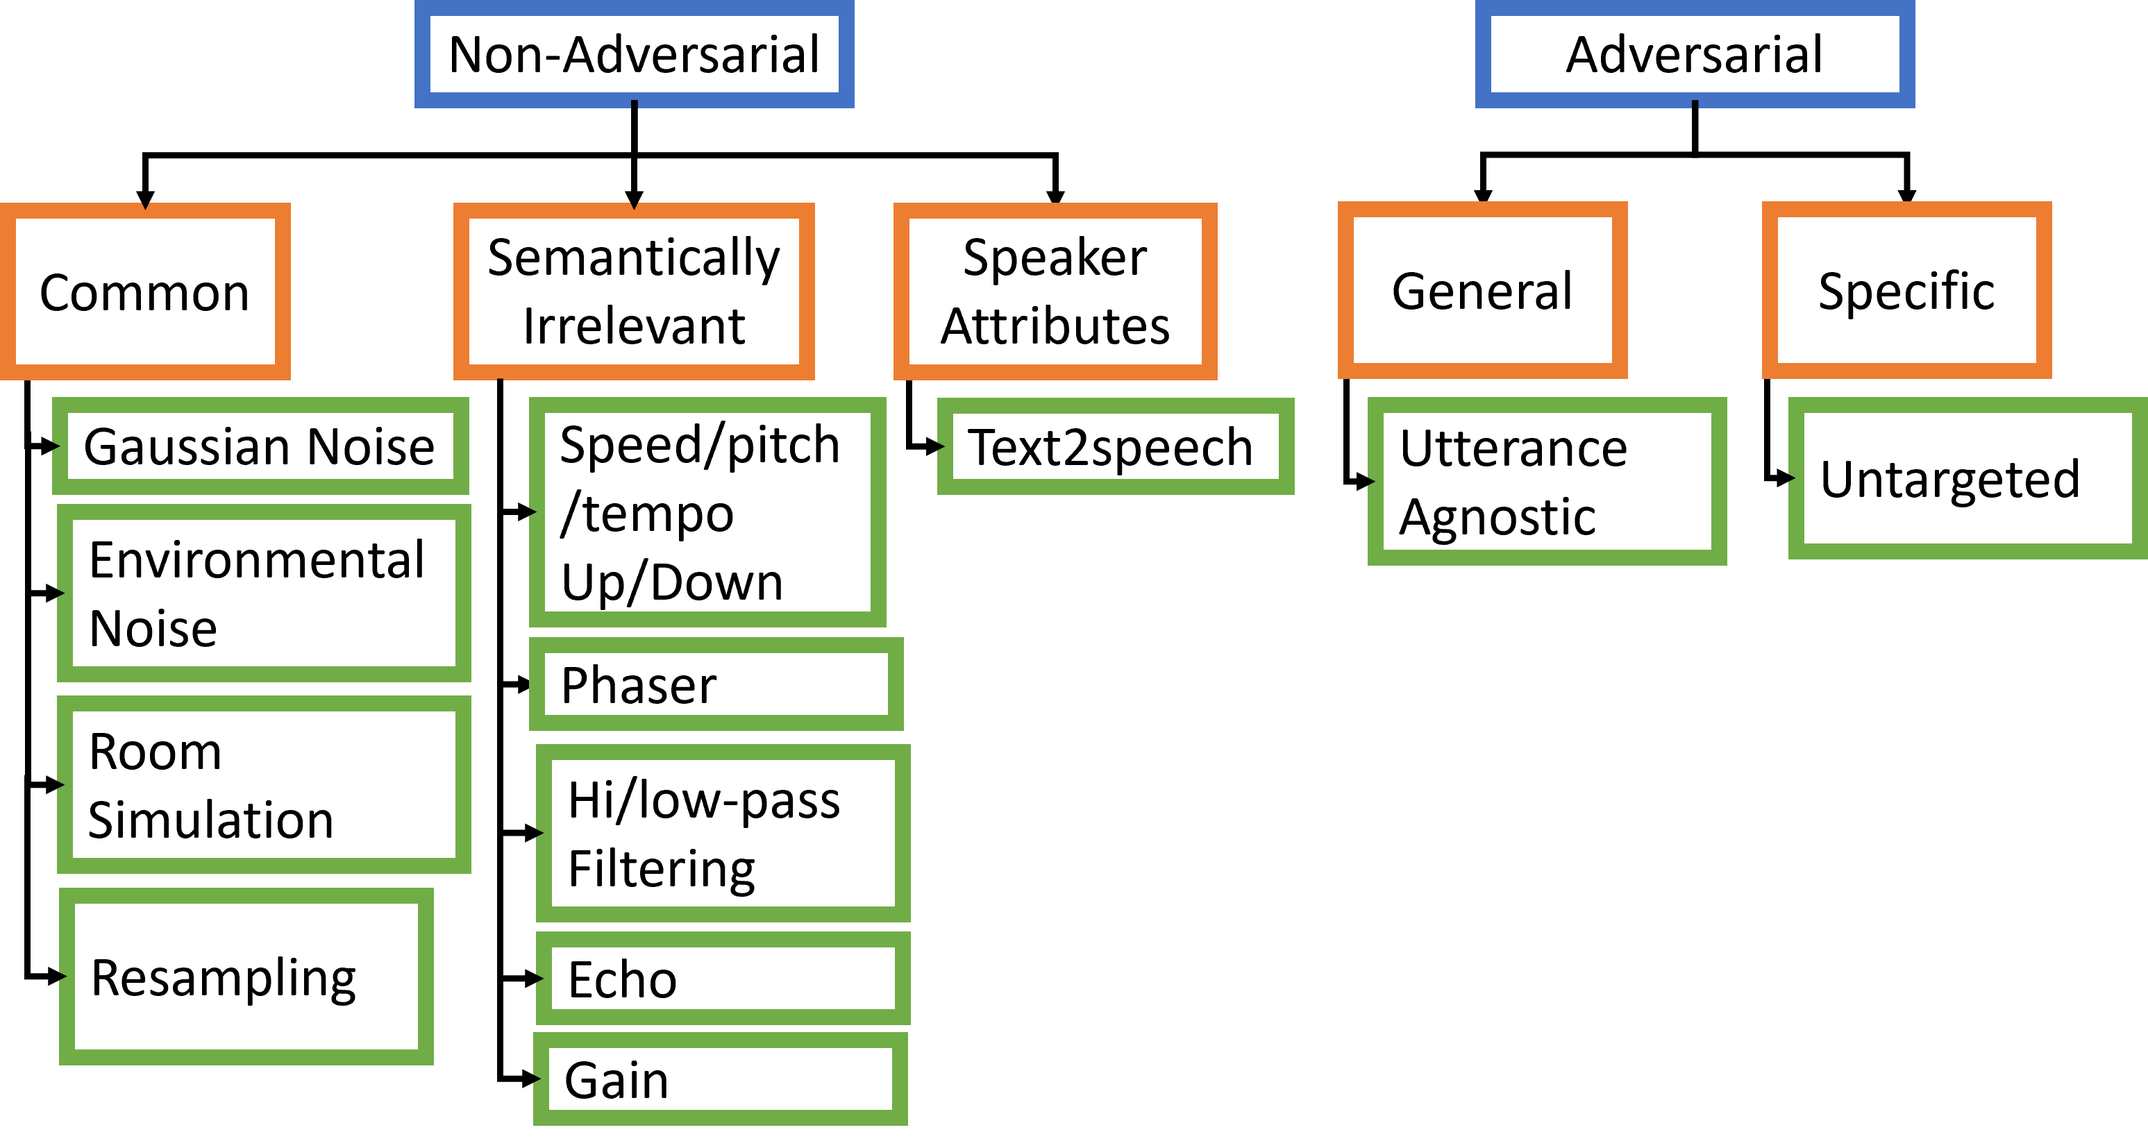
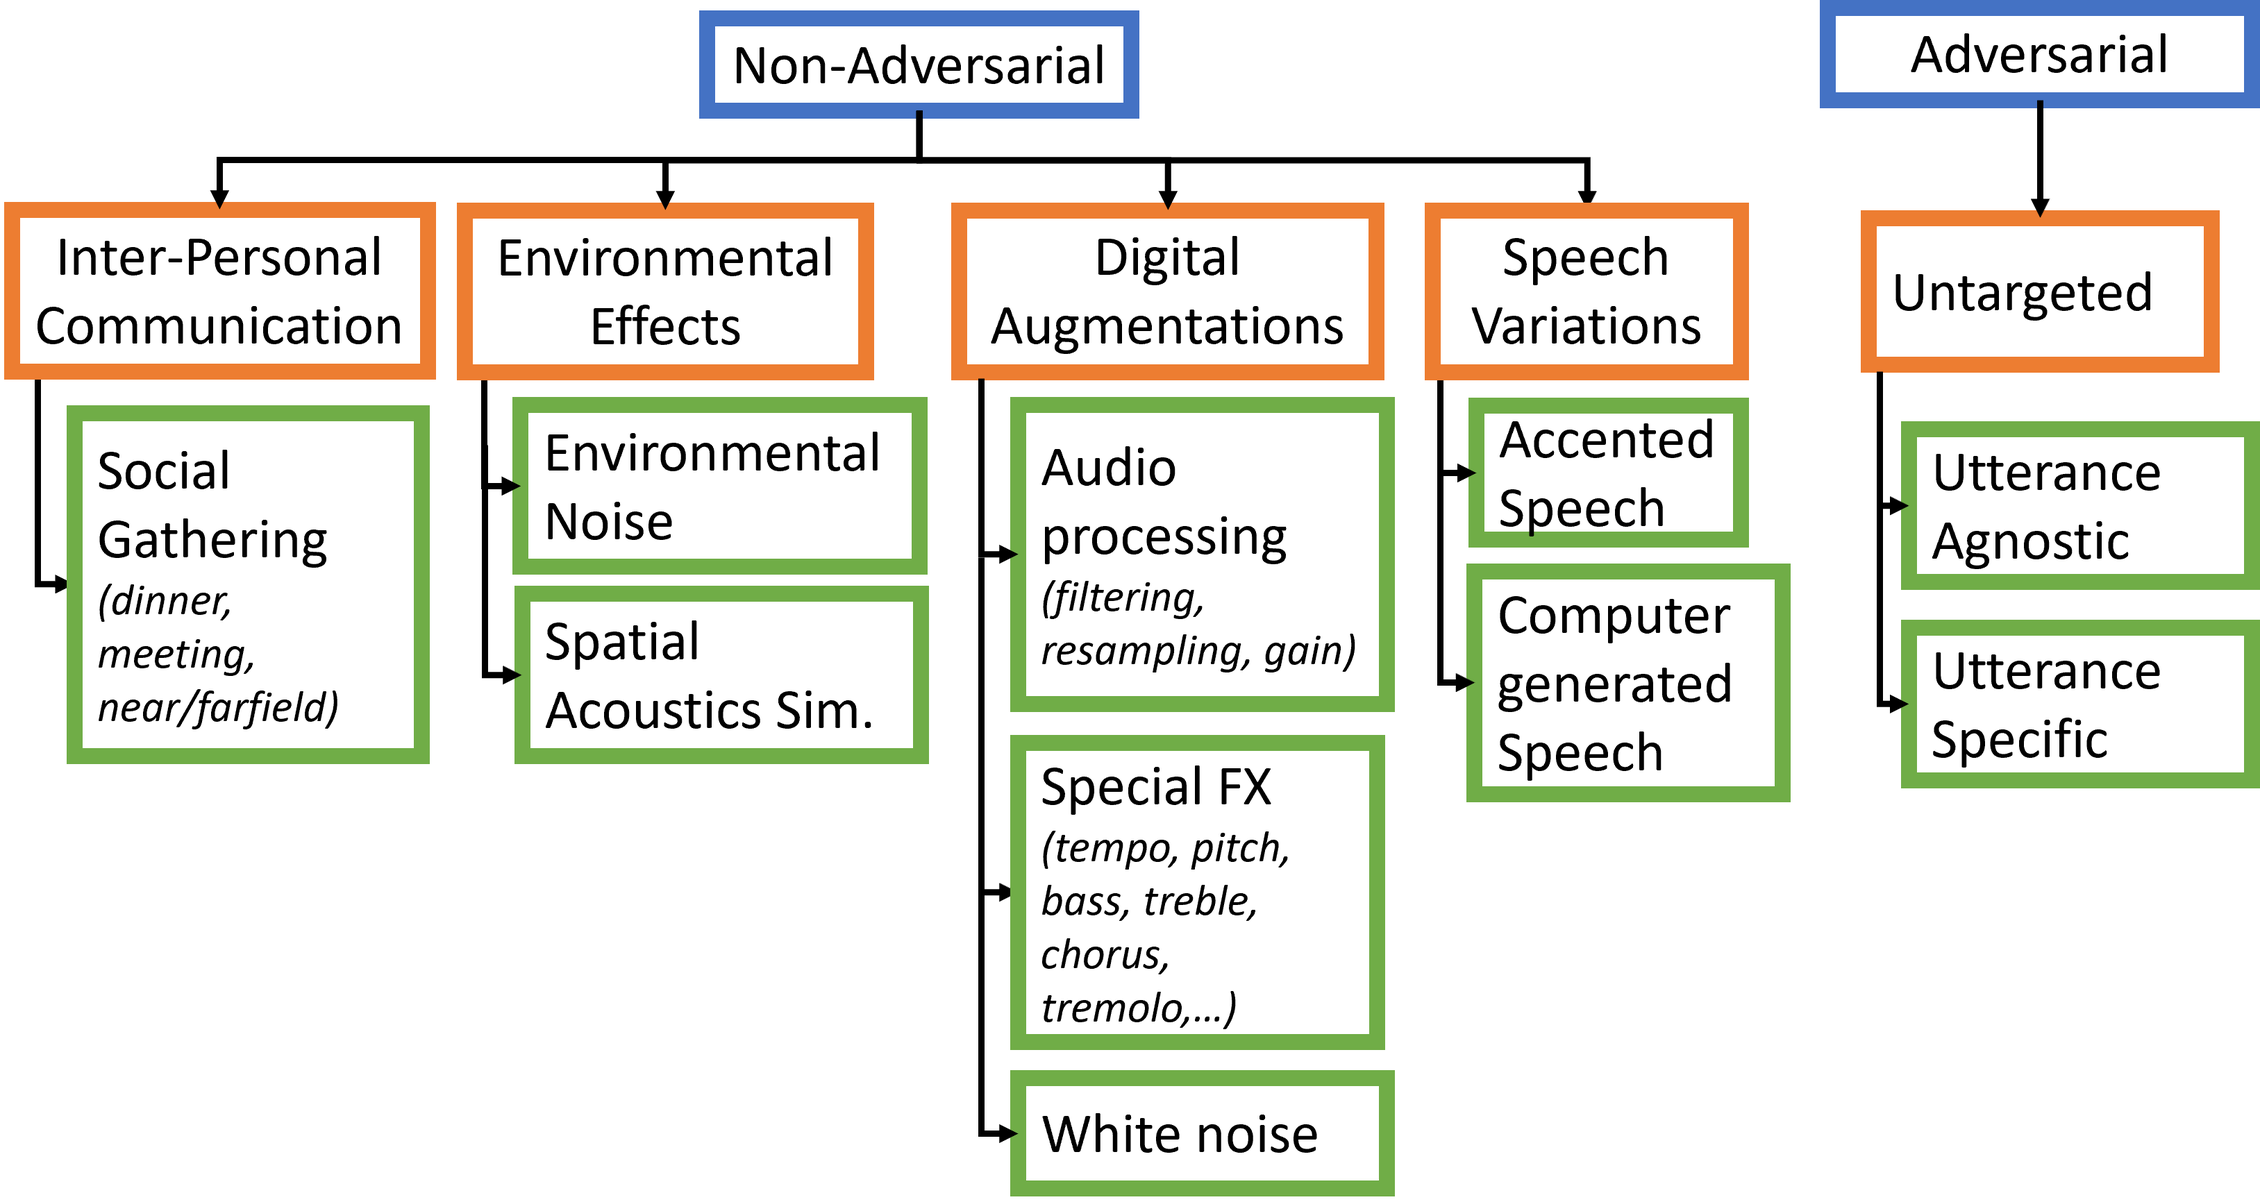
moved transcription pipeline code to models/

Changed region(s): [[0.0, 0.0, 1.0, 1.0]]

diff --git a/evaluate_single.py b/evaluate_single.py
@@ -6,6 +6,7 @@ import string
 from multiprocessing import cpu_count
 import torch
 from create_transformed_datasets import load_augmentation, transform_dataset, parse_augmentation
+from models import create_model_pipeline
 
 N_CPUS = cpu_count()
 N_GPUS = torch.cuda.device_count()
@@ -25,7 +26,7 @@ if __name__ == '__main__':
     parser.add_argument('--subset', default=None, help='Subset of the dataset to use. default: None')
     parser.add_argument('--split', default='test.clean', help='Split of the dataset to use. default: test.clean')
     parser.add_argument('--batch_size', type=int, default=128)
-    parser.add_argument('--augmentation', type=str, help='Augmentation to apply to the dataset. Should be of the form <aug>:<sev>, where <aug> is a key in corruptions.AUGMENTATIONS, and <sev> is the severity in range 1-4 (except for voice_conversion_vctk for which it should be 1). default: None')
+    parser.add_argument('--augmentation', type=str, help='Augmentation to apply to the dataset. Should be of the form <aug>:<sev>, where <aug> is a key in corruption_info.AUGMENTATIONS_2_SEV, and <sev> is the severity in range 1-4 (except for voice_conversion_vctk for which it should be 1). default: None')
     parser.add_argument('--universal_delta_path', type=str, help='Path to the universal adversarial perturbation. default: None')
     parser.add_argument('--language', default='english', help='Language of the dataset. This is needs to be correctly specified for multi-lingual models. default: english')
     parser.add_argument('--output_dir', default='outputs', help='Output directory for the results. default: outputs')
@@ -60,7 +61,6 @@ if __name__ == '__main__':
             i += 1
             ofp = f'{odir}/{ofn}_{i}.tsv'
     from datasets import load_dataset, Audio, concatenate_datasets
-    from transformers.pipelines.pt_utils import KeyDataset
     import evaluate
     import numpy as np
     import pandas as pd
@@ -103,135 +103,11 @@ if __name__ == '__main__':
     wer_metric = evaluate.load("wer")
     cer_metric = evaluate.load("cer")
 
-    if args.model_name == 'deepspeech':
-        from deepspeech_pytorch.model import DeepSpeech
-        from deepspeech_pytorch.loader.data_loader import ChunkSpectrogramParser
-        from deepspeech_pytorch.decoder import GreedyDecoder
-
-        model = DeepSpeech.load_from_checkpoint(f'{os.environ["SRB_ROOT"]}/deepspeech_ckps/librispeech_pretrained_v3.ckpt')
-        parser = ChunkSpectrogramParser(audio_conf=model.spect_cfg)
-        def extract_features(x):
-            waveform = x['audio']['array']
-            spec = list(parser.parse_audio(waveform))[0]
-            x['spec'] = spec
-            x['lengths'] = spec.shape[1]
-            return x
-        dataset = dataset.map(extract_features, batched=False, num_proc=N_CPUS//4)
-        
-        def collate_fn(batch):
-            specs = [torch.FloatTensor(batch[i]['spec']).transpose(0,1) for i in range(len(batch))]
-            lengths = torch.LongTensor([(batch[i]['lengths']) for i in range(len(batch))])
-            specs = torch.nn.utils.rnn.pad_sequence(specs, batch_first=True).unsqueeze(1).transpose(2,3)
-            return {'spec': specs, 'lengths': lengths}
-        
-        dataloader = torch.utils.data.DataLoader(dataset, batch_size=args.batch_size, collate_fn=collate_fn, num_workers=N_CPUS//4, shuffle=False)
-        decoder = GreedyDecoder(model.labels)
-        def transcribe(dataloader):
-            for batch in dataloader:
-                length_order = torch.argsort(batch['lengths'], descending=True)
-                reverse_length_order = torch.argsort(length_order)
-                batch['spec'] = batch['spec'][length_order]
-                batch['lengths'] = batch['lengths'][length_order]
-                out, lens, _ = model(batch['spec'].cuda(), batch['lengths'].cuda())                
-                decoded_output, decoded_offsets = decoder.decode(out, lens)
-                for i in reverse_length_order:
-                    yield {'text': decoded_output[i][0]}
-        pipe = transcribe(dataloader)
-    elif args.model_name == 'rnnt':
-        import torchaudio
-        from torchaudio.pipelines import EMFORMER_RNNT_BASE_LIBRISPEECH
-
-        feature_extractor = EMFORMER_RNNT_BASE_LIBRISPEECH.get_feature_extractor()
-        decoder = EMFORMER_RNNT_BASE_LIBRISPEECH.get_decoder().cuda()
-        token_processor = EMFORMER_RNNT_BASE_LIBRISPEECH.get_token_processor()
-
-        def extract_features(x):
-            waveform = torch.FloatTensor(x['audio']['array'])
-            spec, length = feature_extractor(waveform)
-            x['spec'] = spec
-            x['lengths'] = length[0]
-            return x
-        dataset = dataset.map(extract_features, batched=False, num_proc=4)
-
-        def collate_fn(batch):
-            specs = [torch.FloatTensor(batch[i]['spec']) for i in range(len(batch))]
-            lengths = torch.LongTensor([(batch[i]['lengths']) for i in range(len(batch))])
-            specs = torch.nn.utils.rnn.pad_sequence(specs, batch_first=True)
-            return {'spec': specs, 'lengths': lengths}      
-        dataloader = torch.utils.data.DataLoader(dataset, batch_size=args.batch_size, collate_fn=collate_fn, num_workers=4, shuffle=False)
-        
-        def transcribe(dataloader):
-            for batch in dataloader:
-                with torch.no_grad():
-                    for feature, length in zip(batch['spec'].cuda(), batch['lengths'].cuda()):
-                        hypotheses = decoder(feature.unsqueeze(0), length.unsqueeze(0), 1)
-                        text = token_processor(hypotheses[0][0])
-                        yield {'text': text}
-        pipe = transcribe(dataloader)
-    elif args.model_name.startswith('nvidia/canary'):
-        from nemo.collections.asr.models import EncDecMultiTaskModel
-        from scipy.io import wavfile
-        model = EncDecMultiTaskModel.from_pretrained('nvidia/canary-1b')
-        decode_cfg = model.cfg.decoding
-        decode_cfg.beam.beam_size = 1
-        model.change_decoding_strategy(decode_cfg)
-        # if aug == 'universal_adv':
-        #     print(f'Adversarial attacks against {args.model_name} are not supported.')
-        # else:
-        import tempfile, json
-        long2short_lang = {
-            'English': 'en',
-            'Spanish': 'es'
-        }
-        with tempfile.NamedTemporaryFile(suffix='.json', mode='w') as tmp:
-            with tempfile.TemporaryDirectory() as tmpdir:
-                print(f'writing creating manifest in {tmp.name}...')
-                for i, item in tqdm(enumerate(dataset)):
-                    tmpaudiofile = os.path.join(tmpdir, f"{item['id']}.wav")
-                    wavfile.write(tmpaudiofile, 16000, item['audio']['array'])
-                    r = {
-                            "audio_filepath": tmpaudiofile,  # path to the audio file
-                            "duration": item['audio']['array'].shape[-1],  # duration of the audio, can be set to `None` if using NeMo main branch
-                            "taskname": "asr",  # use "s2t_translation" for speech-to-text translation with r1.23, or "ast" if using the NeMo main branch
-                            "source_lang": long2short_lang[args.language],  # language of the audio input, set `source_lang`==`target_lang` for ASR, choices=['en','de','es','fr']
-                            "target_lang": long2short_lang[args.language],  # language of the text output, choices=['en','de','es','fr']
-                            "pnc": "yes",  # whether to have PnC output, choices=['yes', 'no']
-                            "answer": "na", 
-                        }
-                    tmp.write(json.dumps(r)+'\n')
-                    tmp.flush()
-                transcripts = model.transcribe(paths2audio_files=tmp.name, batch_size=args.batch_size)
-            # def pipe():
-            #     for t in transcripts:
-            #         yield {'text': t}
-            pipe = [{'text':t} for t in transcripts]
+    if args.model_parallelism: 
+        kwargs = {'device_map': 'auto'}
     else:
-        if args.model_parallelism: 
-            kwargs = {'device_map': 'auto'}
-        else:
-            kwargs = {'device': 'cuda:0'}
-        model = args.model_name
-        gen_kwargs = {}
-        if ('whisper' in args.model_name) and (args.language != 'English'):
-            from transformers import WhisperProcessor
-            processor = WhisperProcessor.from_pretrained(args.model_name)
-            gen_kwargs = {'forced_decoder_ids': processor.get_decoder_prompt_ids(language=args.language.lower(), task="transcribe")}
-            print(gen_kwargs)
-        if ('mms' in args.model_name) and (args.language != 'English'):
-            from transformers import Wav2Vec2ForCTC, AutoProcessor
-            processor = AutoProcessor.from_pretrained(args.model_name, torch_dtype=torch.float16)
-            model = Wav2Vec2ForCTC.from_pretrained(args.model_name, torch_dtype=torch.float16)
-            from iso639 import Lang
-            processor.tokenizer.set_target_lang(Lang(args.language).pt2t)
-            kwargs['tokenizer'] = processor.tokenizer
-            kwargs['feature_extractor'] = args.model_name
-            model.load_adapter(args.language)
-            model = model.to(torch.float16)
-        print(kwargs)
-        print(model)
-        from transformers import pipeline
-        pipe = pipeline("automatic-speech-recognition", model=model, batch_size=args.batch_size, torch_dtype=torch.float16, **kwargs, generate_kwargs=gen_kwargs)
-        pipe = pipe(KeyDataset(dataset, "audio"))
+        kwargs = {'device': 'cuda:0'}
+    pipe = create_model_pipeline(args.model_name, dataset, batch_size=args.batch_size, language=args.language, **kwargs)
     
     output_rows = []
     t = tqdm(zip(pipe, dataset))

diff --git a/models/canary.py b/models/canary.py
@@ -1,0 +1,41 @@
+from nemo.collections.asr.models import EncDecMultiTaskModel
+from scipy.io import wavfile
+import os
+from tqdm import tqdm
+
+def create_model_pipeline(dataset, batch_size=1, language='English', **kwargs):
+    model = EncDecMultiTaskModel.from_pretrained('nvidia/canary-1b')
+    decode_cfg = model.cfg.decoding
+    decode_cfg.beam.beam_size = 1
+    model.change_decoding_strategy(decode_cfg)
+    # if aug == 'universal_adv':
+    #     print(f'Adversarial attacks against {args.model_name} are not supported.')
+    # else:
+    import tempfile, json
+    long2short_lang = {
+        'English': 'en',
+        'Spanish': 'es'
+    }
+    with tempfile.NamedTemporaryFile(suffix='.json', mode='w') as tmp:
+        with tempfile.TemporaryDirectory() as tmpdir:
+            print(f'writing creating manifest in {tmp.name}...')
+            for i, item in tqdm(enumerate(dataset)):
+                tmpaudiofile = os.path.join(tmpdir, f"{item['id']}.wav")
+                wavfile.write(tmpaudiofile, 16000, item['audio']['array'])
+                r = {
+                        "audio_filepath": tmpaudiofile,  # path to the audio file
+                        "duration": item['audio']['array'].shape[-1],  # duration of the audio, can be set to `None` if using NeMo main branch
+                        "taskname": "asr",  # use "s2t_translation" for speech-to-text translation with r1.23, or "ast" if using the NeMo main branch
+                        "source_lang": long2short_lang[language],  # language of the audio input, set `source_lang`==`target_lang` for ASR, choices=['en','de','es','fr']
+                        "target_lang": long2short_lang[language],  # language of the text output, choices=['en','de','es','fr']
+                        "pnc": "yes",  # whether to have PnC output, choices=['yes', 'no']
+                        "answer": "na", 
+                    }
+                tmp.write(json.dumps(r)+'\n')
+                tmp.flush()
+            transcripts = model.transcribe(paths2audio_files=tmp.name, batch_size=batch_size)
+        # def pipe():
+        #     for t in transcripts:
+        #         yield {'text': t}
+        pipe = [{'text':t} for t in transcripts]
+        return pipe

diff --git a/models/deepspeech.py b/models/deepspeech.py
@@ -1,0 +1,40 @@
+from deepspeech_pytorch.model import DeepSpeech
+from deepspeech_pytorch.loader.data_loader import ChunkSpectrogramParser
+from deepspeech_pytorch.decoder import GreedyDecoder
+import os
+import torch
+from multiprocessing import cpu_count
+
+N_CPUS = cpu_count()
+
+def create_model_pipeline(dataset, batch_size=1, **kwargs):
+    model = DeepSpeech.load_from_checkpoint(f'{os.environ["SRB_ROOT"]}/deepspeech_ckps/librispeech_pretrained_v3.ckpt')
+    parser = ChunkSpectrogramParser(audio_conf=model.spect_cfg)
+    def extract_features(x):
+        waveform = x['audio']['array']
+        spec = list(parser.parse_audio(waveform))[0]
+        x['spec'] = spec
+        x['lengths'] = spec.shape[1]
+        return x
+    dataset = dataset.map(extract_features, batched=False, num_proc=N_CPUS//4)
+
+    def collate_fn(batch):
+        specs = [torch.FloatTensor(batch[i]['spec']).transpose(0,1) for i in range(len(batch))]
+        lengths = torch.LongTensor([(batch[i]['lengths']) for i in range(len(batch))])
+        specs = torch.nn.utils.rnn.pad_sequence(specs, batch_first=True).unsqueeze(1).transpose(2,3)
+        return {'spec': specs, 'lengths': lengths}
+
+    dataloader = torch.utils.data.DataLoader(dataset, batch_size=batch_size, collate_fn=collate_fn, num_workers=N_CPUS//4, shuffle=False)
+    decoder = GreedyDecoder(model.labels)
+    def transcribe(dataloader):
+        for batch in dataloader:
+            length_order = torch.argsort(batch['lengths'], descending=True)
+            reverse_length_order = torch.argsort(length_order)
+            batch['spec'] = batch['spec'][length_order]
+            batch['lengths'] = batch['lengths'][length_order]
+            out, lens, _ = model(batch['spec'].cuda(), batch['lengths'].cuda())                
+            decoded_output, decoded_offsets = decoder.decode(out, lens)
+            for i in reverse_length_order:
+                yield {'text': decoded_output[i][0]}
+    pipe = transcribe(dataloader)
+    return pipe

diff --git a/models/rnnt.py b/models/rnnt.py
@@ -1,0 +1,33 @@
+import torchaudio
+from torchaudio.pipelines import EMFORMER_RNNT_BASE_LIBRISPEECH
+import torch
+
+def create_model_pipeline(dataset, batch_size=1, **kwargs):
+    feature_extractor = EMFORMER_RNNT_BASE_LIBRISPEECH.get_feature_extractor()
+    decoder = EMFORMER_RNNT_BASE_LIBRISPEECH.get_decoder().cuda()
+    token_processor = EMFORMER_RNNT_BASE_LIBRISPEECH.get_token_processor()
+
+    def extract_features(x):
+        waveform = torch.FloatTensor(x['audio']['array'])
+        spec, length = feature_extractor(waveform)
+        x['spec'] = spec
+        x['lengths'] = length[0]
+        return x
+    dataset = dataset.map(extract_features, batched=False, num_proc=4)
+
+    def collate_fn(batch):
+        specs = [torch.FloatTensor(batch[i]['spec']) for i in range(len(batch))]
+        lengths = torch.LongTensor([(batch[i]['lengths']) for i in range(len(batch))])
+        specs = torch.nn.utils.rnn.pad_sequence(specs, batch_first=True)
+        return {'spec': specs, 'lengths': lengths}      
+    dataloader = torch.utils.data.DataLoader(dataset, batch_size=batch_size, collate_fn=collate_fn, num_workers=4, shuffle=False)
+
+    def transcribe(dataloader):
+        for batch in dataloader:
+            with torch.no_grad():
+                for feature, length in zip(batch['spec'].cuda(), batch['lengths'].cuda()):
+                    hypotheses = decoder(feature.unsqueeze(0), length.unsqueeze(0), 1)
+                    text = token_processor(hypotheses[0][0])
+                    yield {'text': text}
+    pipe = transcribe(dataloader)
+    return pipe

diff --git a/models/__init__.py b/models/__init__.py
@@ -1,0 +1,20 @@
+from models import canary
+from models import deepspeech
+from models import hf
+from models import mms
+from models import rnnt
+from models import whisper
+
+def create_model_pipeline(model, dataset, batch_size=1, language='English', **kwargs):
+    if model == 'deepspeech':
+        return deepspeech.create_model_pipeline(dataset, batch_size=batch_size, **kwargs)
+    elif model == 'rnnt':
+        return rnnt.create_model_pipeline(dataset, batch_size=batch_size, **kwargs)
+    elif model.startswith('nvidia/canary'):
+        return canary.create_model_pipeline(dataset, batch_size=batch_size, language=language, **kwargs)
+    elif model.startswith('openai/whisper'):
+        return whisper.create_model_pipeline(dataset, model, batch_size=batch_size, language=language, **kwargs)
+    elif model.startswith('facebook/mms'):
+        return mms.create_model_pipeline(dataset, model, batch_size=batch_size, language=language, **kwargs)
+    else:
+        return hf.create_model_pipeline(dataset, model, batch_size=batch_size, **kwargs)

diff --git a/models/mms.py b/models/mms.py
@@ -1,0 +1,16 @@
+from transformers import Wav2Vec2ForCTC, AutoProcessor
+from iso639 import Lang
+import torch
+from models.hf import create_model_pipeline as create_hf_model_pipeline
+
+def create_model_pipeline(dataset, model, batch_size=1, language='English',**kwargs):
+    if language != 'English':
+        processor = AutoProcessor.from_pretrained(model, torch_dtype=torch.float16)
+        model = Wav2Vec2ForCTC.from_pretrained(model, torch_dtype=torch.float16)
+        processor.tokenizer.set_target_lang(Lang(language).pt2t)
+        kwargs['tokenizer'] = processor.tokenizer
+        kwargs['feature_extractor'] = model
+        model.load_adapter(language)
+        model = model.to(torch.float16)
+    pipe = create_hf_model_pipeline(dataset, model, batch_size=batch_size, **kwargs)
+    return pipe

diff --git a/models/whisper.py b/models/whisper.py
@@ -1,0 +1,10 @@
+from transformers import WhisperProcessor
+from models.hf import create_model_pipeline as create_hf_model_pipeline
+
+def create_model_pipeline(dataset, model, batch_size=1, language='English',**kwargs):
+    gen_kwargs = {}
+    if language != 'English':
+        processor = WhisperProcessor.from_pretrained(model)
+        gen_kwargs = {'forced_decoder_ids': processor.get_decoder_prompt_ids(language=language.lower(), task="transcribe")}
+    pipe = create_hf_model_pipeline(dataset, model, batch_size=batch_size, gen_kwargs=gen_kwargs, **kwargs)
+    return pipe

diff --git a/models/hf.py b/models/hf.py
@@ -1,0 +1,8 @@
+from transformers import pipeline
+from transformers.pipelines.pt_utils import KeyDataset
+import torch
+
+def create_model_pipeline(dataset, model, batch_size=1, gen_kwargs={}, **kwargs):
+    pipe = pipeline("automatic-speech-recognition", model=model, batch_size=batch_size, torch_dtype=torch.float16, **kwargs, generate_kwargs=gen_kwargs)
+    pipe = pipe(KeyDataset(dataset, "audio"))
+    return pipe
